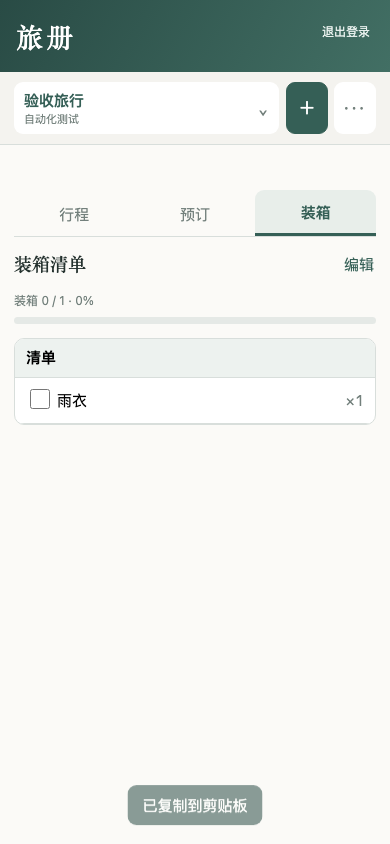
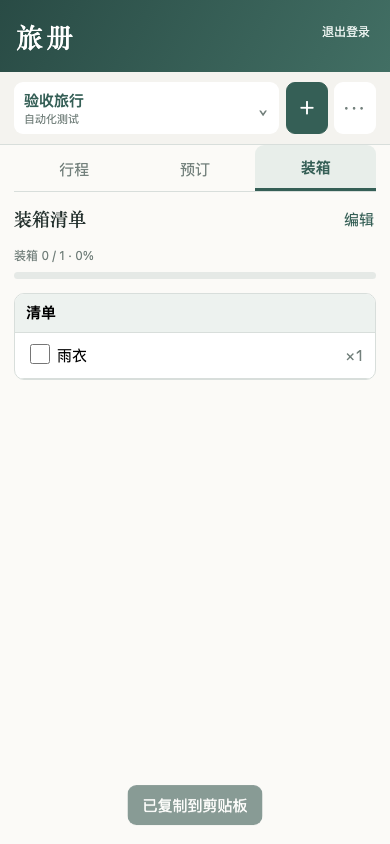
fix: keep obsolete toolbar hidden on packing tab

diff --git a/test/browser.test.js b/test/browser.test.js
@@ -16,7 +16,7 @@ const document={active:'one',tab:'itinerary',trips:[{id:'one',name:'验收旅行
 test.before(async()=>{await mkdir(join(root,'docs/evidence'),{recursive:true});server=createServer(async(req,res)=>{if(req.url==='/api/trips'){res.setHeader('content-type','application/json');if(req.method==='GET')res.end(JSON.stringify({version:1,data:document}));else res.end(JSON.stringify({version:2})) ;return}let p=req.url==='/'?'index.html':req.url.slice(1);try{let data=await readFile(join(root,p));res.setHeader('content-type',mime[extname(p)]||'application/octet-stream');res.end(data)}catch{res.statusCode=404;res.end()}});await new Promise(r=>server.listen(0,'127.0.0.1',r));base=`http://127.0.0.1:${server.address().port}`;browser=await chromium.launch({executablePath:browserPath,headless:true})});
 test.after(async()=>{await browser?.close();await new Promise(r=>server.close(r))});
 
-test('desktop/mobile UX, delete guard, current day and copy feedback',async()=>{for(const [name,viewport] of [['desktop',{width:1440,height:1000}],['mobile',{width:390,height:844}]]){let context=await browser.newContext({viewport});await context.grantPermissions(['clipboard-read','clipboard-write'],{origin:base});let page=await context.newPage();await page.goto(base);await page.waitForSelector('tr.today');assert.equal(await page.locator('tr.today').count(),1);await page.locator('#tabs [data-tab="bookings"]').click();let copy=page.getByRole('button',{name:'复制航班/车次'});await copy.click();assert.equal(await page.evaluate(()=>navigator.clipboard.readText()),'G123');await page.getByText('已复制到剪贴板').waitFor();assert.equal(await page.evaluate(()=>document.documentElement.scrollWidth<=document.documentElement.clientWidth),true,`${name} has page-level horizontal overflow`);if(name==='mobile'){assert.equal(await page.locator('.data-table thead').first().evaluate(el=>getComputedStyle(el).display),'none');assert.equal(await page.locator('.data-table tbody tr').first().evaluate(el=>getComputedStyle(el).display),'block');const logout=await page.locator('#logout').boundingBox(),viewportSize=page.viewportSize();assert.ok(logout&&logout.x>viewportSize.width/2&&logout.y<130,'mobile logout is not in the upper-right header');assert.equal(await page.locator('.toolbar>div:first-child').evaluate(el=>getComputedStyle(el).display),'none','mobile repeats current trip heading');assert.equal(await page.locator('.progress').evaluate(el=>getComputedStyle(el).display),'none','packing progress leaks into another tab');await page.locator('#tabs [data-tab="packing"]').click();assert.notEqual(await page.locator('.progress').evaluate(el=>getComputedStyle(el).display),'none','packing progress is missing');const tabsBox=await page.locator('.tabs').boundingBox(),progressBox=await page.locator('.progress').boundingBox();assert.ok(tabsBox&&progressBox&&progressBox.y>tabsBox.y+tabsBox.height,'packing progress must follow tabs');assert.equal(await page.locator('.column-head').first().evaluate(el=>getComputedStyle(el).display),'none');assert.equal(await page.locator('.mobile-check').first().evaluate(el=>getComputedStyle(el).display),'block');assert.equal(await page.locator('.item-qty').first().textContent(),'×1');assert.equal(await page.locator('aside').evaluate(el=>getComputedStyle(el).overflowY),'visible','trip switcher creates nested scrolling');await page.locator('summary[aria-label="更多操作"]').click();const menuBox=await page.locator('.trip-actions .menu-panel').boundingBox(),asideBox=await page.locator('aside').boundingBox();assert.ok(menuBox&&asideBox&&menuBox.y+menuBox.height>asideBox.y+asideBox.height,'menu does not extend beyond switcher');await page.locator('summary[aria-label="更多操作"]').click();await page.locator('#toast').evaluate(el=>el.className='');await page.screenshot({path:join(root,'docs/evidence/ux-mobile-packing.png'),fullPage:true})}await page.screenshot({path:join(root,`docs/evidence/ux-${name}.png`),fullPage:true});await context.close()}
+test('desktop/mobile UX, delete guard, current day and copy feedback',async()=>{for(const [name,viewport] of [['desktop',{width:1440,height:1000}],['mobile',{width:390,height:844}]]){let context=await browser.newContext({viewport});await context.grantPermissions(['clipboard-read','clipboard-write'],{origin:base});let page=await context.newPage();await page.goto(base);await page.waitForSelector('tr.today');assert.equal(await page.locator('tr.today').count(),1);await page.locator('#tabs [data-tab="bookings"]').click();let copy=page.getByRole('button',{name:'复制航班/车次'});await copy.click();assert.equal(await page.evaluate(()=>navigator.clipboard.readText()),'G123');await page.getByText('已复制到剪贴板').waitFor();assert.equal(await page.evaluate(()=>document.documentElement.scrollWidth<=document.documentElement.clientWidth),true,`${name} has page-level horizontal overflow`);if(name==='mobile'){assert.equal(await page.locator('.data-table thead').first().evaluate(el=>getComputedStyle(el).display),'none');assert.equal(await page.locator('.data-table tbody tr').first().evaluate(el=>getComputedStyle(el).display),'block');const logout=await page.locator('#logout').boundingBox(),viewportSize=page.viewportSize();assert.ok(logout&&logout.x>viewportSize.width/2&&logout.y<130,'mobile logout is not in the upper-right header');assert.equal(await page.locator('.toolbar>div:first-child').evaluate(el=>getComputedStyle(el).display),'none','mobile repeats current trip heading');assert.equal(await page.locator('.progress').evaluate(el=>getComputedStyle(el).display),'none','packing progress leaks into another tab');await page.locator('#tabs [data-tab="packing"]').click();assert.notEqual(await page.locator('.progress').evaluate(el=>getComputedStyle(el).display),'none','packing progress is missing');assert.equal(await page.locator('.desktop-toolbar').evaluate(el=>getComputedStyle(el).display),'none','obsolete toolbar creates blank space above packing tabs');const tabsBox=await page.locator('.tabs').boundingBox(),progressBox=await page.locator('.progress').boundingBox();assert.ok(tabsBox&&progressBox&&progressBox.y>tabsBox.y+tabsBox.height,'packing progress must follow tabs');assert.equal(await page.locator('.column-head').first().evaluate(el=>getComputedStyle(el).display),'none');assert.equal(await page.locator('.mobile-check').first().evaluate(el=>getComputedStyle(el).display),'block');assert.equal(await page.locator('.item-qty').first().textContent(),'×1');assert.equal(await page.locator('aside').evaluate(el=>getComputedStyle(el).overflowY),'visible','trip switcher creates nested scrolling');await page.locator('summary[aria-label="更多操作"]').click();const menuBox=await page.locator('.trip-actions .menu-panel').boundingBox(),asideBox=await page.locator('aside').boundingBox();assert.ok(menuBox&&asideBox&&menuBox.y+menuBox.height>asideBox.y+asideBox.height,'menu does not extend beyond switcher');await page.locator('summary[aria-label="更多操作"]').click();await page.locator('#toast').evaluate(el=>el.className='');await page.screenshot({path:join(root,'docs/evidence/ux-mobile-packing.png'),fullPage:true})}await page.screenshot({path:join(root,`docs/evidence/ux-${name}.png`),fullPage:true});await context.close()}
 let page=await browser.newPage();await page.goto(base);await page.getByRole('button',{name:/可删除旅行/}).click();await page.locator('summary[aria-label="更多操作"]').click();await page.getByRole('button',{name:'删除旅行',exact:true}).click();await page.getByText('此操作无法撤销').waitFor();await page.getByRole('button',{name:'永久删除'}).click();await page.getByText('旅行已删除').waitFor();assert.equal(await page.getByRole('button',{name:/可删除旅行/}).count(),0);page.once('dialog',d=>{assert.match(d.message(),/唯一一份旅行/);d.accept()});await page.locator('summary[aria-label="更多操作"]').click();await page.getByRole('button',{name:'删除旅行',exact:true}).click()});
 
 test('A4 landscape print PDF stays within printable page',async()=>{let page=await browser.newPage({viewport:{width:1440,height:1000}});await page.goto(base);for(const [tab,label] of [['itinerary','行程'],['bookings','预订与联系人'],['packing','装箱清单']]){await page.locator(`#tabs [data-tab="${tab}"]`).click();let file=join(root,`docs/evidence/print-${label}.pdf`);await page.pdf({path:file,format:'A4',landscape:true,printBackground:true,preferCSSPageSize:true});let pdf=await PDFDocument.load(await readFile(file));assert.ok(pdf.getPageCount()>=1);for(const p of pdf.getPages()){let {width,height}=p.getSize();assert.ok(width>height);assert.ok(Math.abs(width-841.89)<3&&Math.abs(height-595.28)<3)}}});

diff --git a/style.css b/style.css
@@ -165,7 +165,7 @@ header #logout:hover{border-color:#fff;background:#ffffff20}
   .account-bar{display:none}
   .account-bar.important{display:block;margin-top:5px}
   .workspace{padding:0 14px 38px}
-  .desktop-toolbar{display:none}
+  .desktop-toolbar,body[data-tab="packing"] .desktop-toolbar{display:none}
   .tabs{order:0;margin:0 0 12px;border-bottom:1px solid var(--line)}
   .tabs button{padding:11px 8px 9px;min-width:0}
   .desktop-label{display:none}.mobile-label{display:inline}
